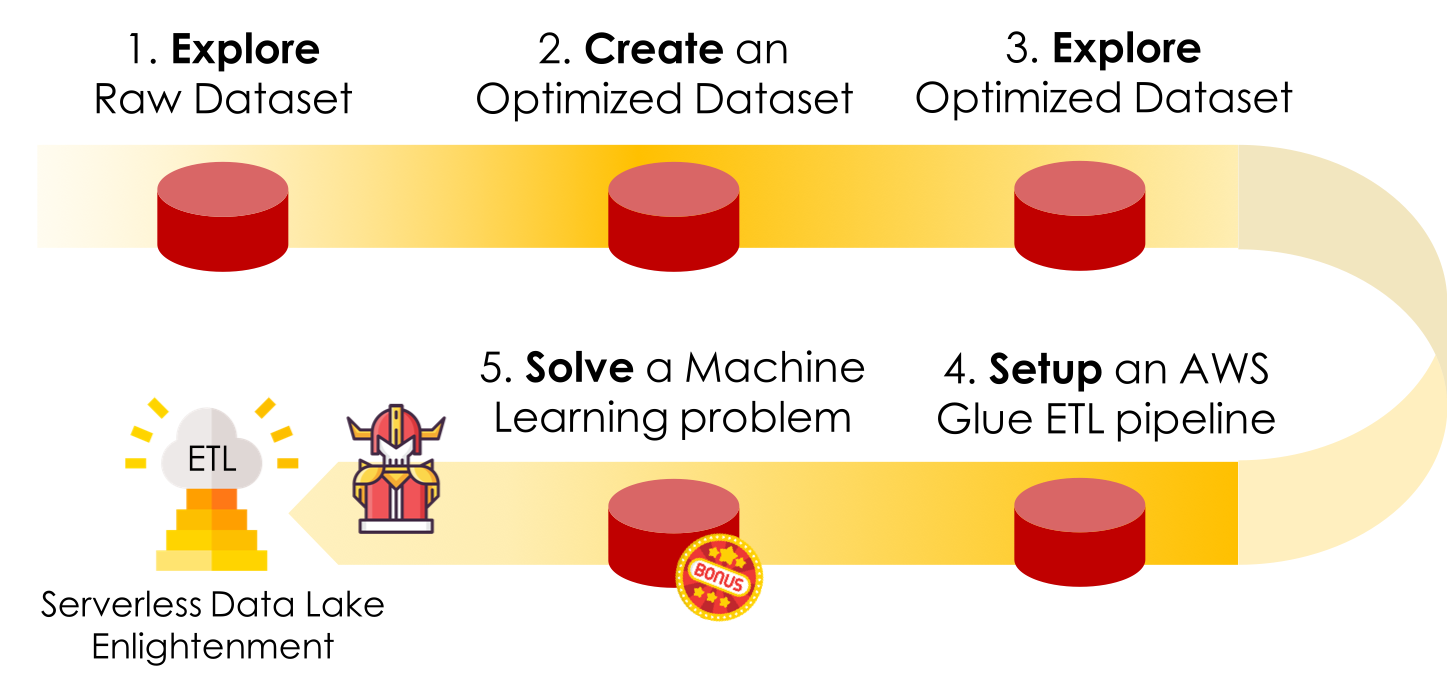
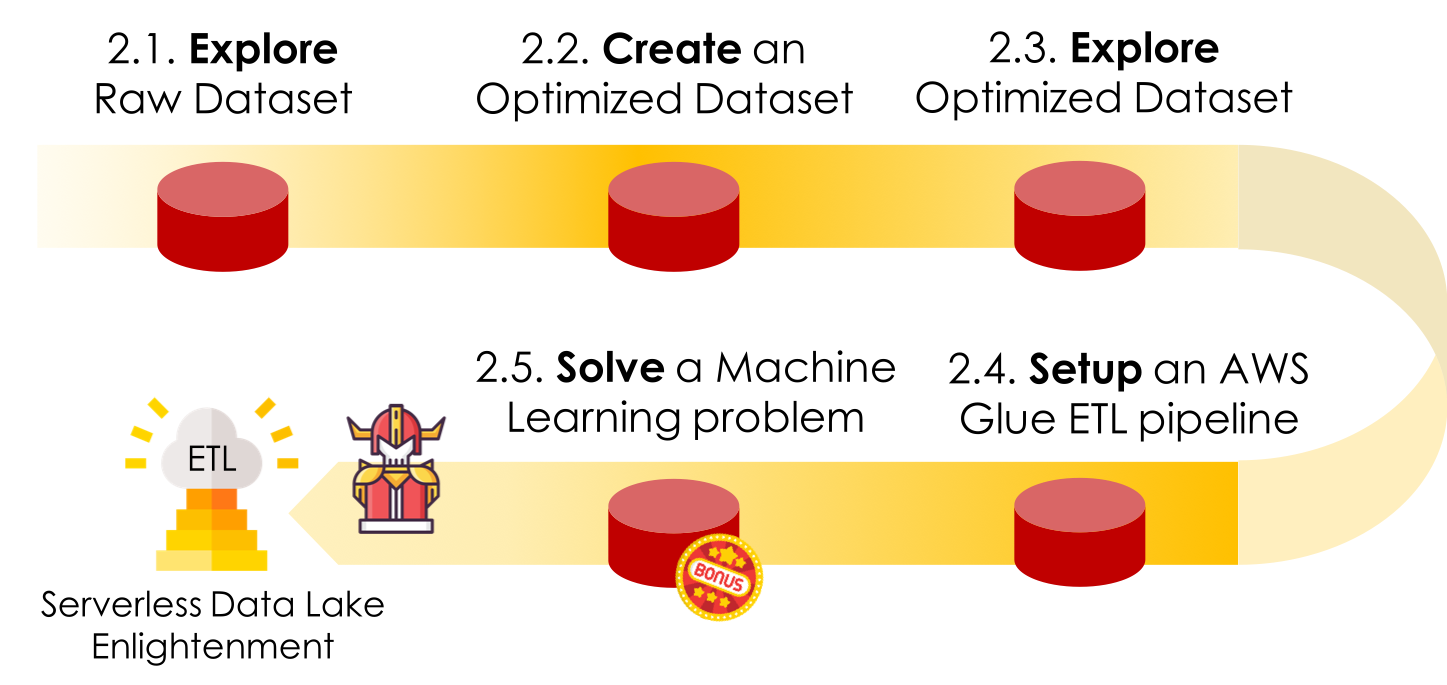
🎯 2.3. Transformed Data & Athena

diff --git a/content/data-prep/analyze/_index.vi.md b/content/data-prep/analyze/_index.vi.md
@@ -1,7 +1,111 @@
 ---
-title: Explore Optimized Dataset
+title: Transformed Data & Athena
 weight: 230
 pre: "<b>2.3. </b>"
 ---
 
-Explore Optimized Dataset ...
+# 2.3. Explore Optimized Dataset
+
+![Data Lake Architecture](/images/modules/analyze.png?width=50pc)
+
+> {{%expand "Improvement in Query Performance and reduction of Data Scanned" %}}
+In the previous step, you created a new Dataset that is optimized for Querying and Reporting. Now, it's time to test the optimizations you've done using SQL queries in Amazon Athena. What tangible **improvement in query performance** and **reduction of data scanned** have your optimizations achieved?
+
+Let's find out by performing the following steps.
+{{% /expand%}}
+
+### 2.3.1 Catalog Optimized Data with an AWS Glue Crawler
+
+🎯To be able to query the new optimized NYC Taxi trips dataset with Amazon Athena, we need to catalog the dataset using an AWS Glue Crawler.
+
+1. Navigate to the [AWS Glue console](https://ap-southeast-1.console.aws.amazon.com/glue/home?region=ap-southeast-1#catalog:tab=crawlers)
+2. In the left menu, click **Crawlers** → **Add crawler**
+3. On **Crawler info** step, enter crawler name **nyctaxi-optimized-crawler** and write a description. Click **Next**.
+4. On **Data store** step...
+   
+    a. Choose a data store: `S3` then choose `Specified path in my account`
+
+    b. In Include path, copy-and-paste an NYC Taxi dataset S3 URL:
+
+	```
+    s3://serverless-data-lake-XXX/data/staging/nyctaxi/yellow_opt/
+    ```
+
+    Note: replace `serverless-data-lake-XXX` with your actual bucket's name.
+	
+    c. Click **Next**
+    
+    d. **Add another data store**, select **Yes**. Click **Next**, again.
+	
+    e. Repeat steps **(a.)** to **(c.)** for the following NYC Taxi Dataset S3 path:
+
+	```
+    s3://serverless-data-lake-XXX/data/prod/nyctaxi/yellow_rpt/
+    ```
+
+    Note: replace `serverless-data-lake-XXX` with your actual bucket's name.
+
+    f. **Add another data store**, select **No**. Click **Next**, again.
+
+5. On **IAM role** step...
+
+	a. Click `Choose an existing IAM role`
+
+	b. In **IAM Role** menu, choose `AWSGlueCrawlerRole-nyctaxi`
+6. On **Schedule** step, click **Next**
+7. On **Output** step...
+	
+    a. For **Database**, select `nyctaxi`.
+	
+    b. Expand **Configuration options (optional)** → select `Add new columns only`
+	
+    We choose this option when we plan on making changes to the table schema manually later on. In such a case, we do not want the AWS Glue Crawler to override our changes in subsequent runs.
+	
+	c. Click **Next**
+
+8. On **Review all steps**, click **Finish**
+9. Finally, click on the green **Run it now?** prompt at the top of the crawlers page.
+
+
+> ✍ The Crawler will run over the new optimized NYC Taxi trips dataset. It will then create a new table, called **yellow_opt** in the AWS Glue data catalog.
+
+> {{%expand "Note that the path data/prod/nyctaxi/yellow_rpt/ does NOT exist yet!" %}}
+Why do you need to add this S3 path?
+Later on, in the exercise 'Advanced Exercise: AWS Glue Job Bookmarks', we'll generate a new optimized dataset for **production use** under that path. Then, we'll need to crawl it and catalog it. In a real scenario, you may choose to create a separate Crawler to crawl that Production Dataset path specifically. However, to save time and avoid repetition in this lab, we'll use a single Crawler – the one you're creating here – to crawl both Datasets.
+{{% /expand%}}
+
+> 🚀Let's take a look at what the Crawler created.
+
+1. In the left menu, under **Data Catalog**, click **Tables**
+
+2. Click on the **yellow_opt** table to show the **Table properties** and **Schema**
+
+3. Scroll down, examine Table **Schema**. Notice the many new fields added. Also notice two new fields **pu_year** and **pu_month** and how they were identified as partitioning columns.
+
+
+### 2.3.2: Query Optimized Data with Amazon Athena
+
+Now that the data has been cataloged, let's test the sample reporting and aggregation queries **on the optimized NYC Taxi trips dataset**.
+
+1. Navigate to **Amazon Athena** console
+2. Ensure database `nyctaxi` is selected.
+3. Click the **Refresh** button, notice how Athena detected the new **`yellow_opt`** Partitioned Table.
+4. Click on the tab **Saved Queries**
+5. In the search field, type `nyctaxi:opt`
+6. Click on the query `AthenaSampleRptOptimizedNamedQuery-` to open in Athena query editor
+7. Click **Run query**
+8. Observe **query run time** and **data scanned.** Compare with the results you saved from section " **2.1.3. Query Raw Data with Amazon Athena"** and notice the improvements:
+
+    ~~(Run time: 48.38 seconds, Data scanned: 164.98 MB)~~
+
+    `(Run time: 15.83 seconds, Data scanned: 20.16 MB)`
+
+    👍 About **3x speed-up** and **80% data scanned** cost reduction compared to Raw Dataset Query.
+
+9.  Repeat **steps 3- 7** for query `AthenaOptimizedAggNamedQuery-`
+
+    ~~(Run time: 41.73 seconds, Data scanned: 164.96 MB)~~
+
+    `(Run time: 3.36 seconds, Data scanned: 62.3 MB)`
+
+    👍 About **12x speed-up** and **25% data scanned** cost reduction compared to Raw Dataset Query.

diff --git a/content/data-prep/catalog_data/_index.en.md b/content/data-prep/catalog_data/_index.en.md
@@ -16,7 +16,7 @@ A Crawler scans your data, classifying its format (.csv, .tsv, ...) and inferrin
 {{% /expand%}}
 
 
-### 2.2.1. Create and run an AWS Glue Crawler
+### 2.1.1. Create and run an AWS Glue Crawler
 
 🎯Let's run an AWS Glue crawler on the raw NYC Taxi trips dataset.
 
@@ -40,7 +40,7 @@ A Crawler scans your data, classifying its format (.csv, .tsv, ...) and inferrin
 
 	d. Click **Next** then **Next** once again.
 
-1. On **IAM Role** step...
+6. On **IAM Role** step...
    
     a. Click `Choose an existing IAM role`
 
@@ -48,9 +48,9 @@ A Crawler scans your data, classifying its format (.csv, .tsv, ...) and inferrin
 
     c. Click **Next**
 
-2. On **Schedule** step, click **Next**
+7. On **Schedule** step, click **Next**
 
-3. On **Output** step...
+8. On **Output** step...
 
     a. Click **Add database** → enter `nyctaxi` as the name → click **Create**
 
@@ -58,14 +58,14 @@ A Crawler scans your data, classifying its format (.csv, .tsv, ...) and inferrin
 
     c. Click Next
 
-4. On **Review all steps**, click **Finish**.
+9. On **Review all steps**, click **Finish**.
 
-5.  Finally, click on the green **Run it now?** prompt at the top of the Crawlers page.
+10.  Finally, click on the green **Run it now?** prompt at the top of the Crawlers page.
 
 
 > ✍ Your crawler should immediately start. Upon completion, it adds four tables in the **nyctaxi** database in your AWS Glue data catalog: **yellow** , **paymenttype** , **ratecode** , and **taxizone**.
 
-### 2.2.2. Explore Table Schema and Metadata
+### 2.1.2. Explore Table Schema and Metadata
 
 🎯Now that we have cataloged the raw NYC Taxi trips dataset using a Crawler, let's explore the Crawler's output in the AWS Glue Data Catalog.
 
@@ -86,7 +86,7 @@ A Crawler scans your data, classifying its format (.csv, .tsv, ...) and inferrin
 4. Scroll down, examine Table **Schema**. Fields have been identified along with their potential Datatypes. You can manually change any Datatype.
 
 
-### 2.2.3. Query Raw Data with Amazon Athena
+### 2.1.3. Query Raw Data with Amazon Athena
 
 > {{%expand "Proposing Amazon Athena along with Amazon QuickSight." %}}
 
@@ -108,11 +108,14 @@ and analytics queries that Unicorn-Taxi's business end users may want to run on 
 4. In the search field, type `nyctaxi:raw`
 5. Click on the `AthenaSampleRptNamedQuery-` query to open in Athena Query Editor.
 Note: After opening the query, [review the comment before the SQL statement](https://github.com/nnthanh101/serverless-data-lake/blob/nyc-taxi/README/nyc-taxi/athena/AthenaSampleRptNamedQuery.sql).
-1. Click **Run query**
+6. Click **Run query**
 
-2. Note: Query **Run time** and **Data scanned**. Copy and paste it into an open text file for later comparison.
-`(Run time: 48.74 seconds, Data scanned: 164.98 MB)`
+7. Note: Query **Run time** and **Data scanned**. Copy and paste it into an open text file for later comparison.
 
-1. Repeat **steps 3- 7** for query **[AthenaSampleAggQuery-](https://github.com/nnthanh101/serverless-data-lake/blob/nyc-taxi/README/nyc-taxi/athena/AthenaSampleAggQuery.sql)**
+    `(Run time: 48.38 seconds, Data scanned: 164.98 MB)`
+
+8. Repeat **steps 3- 7** for query **[`AthenaSampleAggQuery-`](https://github.com/nnthanh101/serverless-data-lake/blob/nyc-taxi/README/nyc-taxi/athena/AthenaSampleAggQuery.sql)**
+
+    `(Run time: 41.73 seconds, Data scanned: 164.96 MB)`
 
 ✍ The *Query Run time* and *Data scanned* values you obtained are a result of running the queries directly on the **Raw Dataset**. Later on, we'll create an **Optimized Dataset** and query it again. And then, we'll be able to compare Query Run times and Data scanned on Raw Dataset versus Optimized Dataset.

diff --git a/content/data-prep/analyze/_index.en.md b/content/data-prep/analyze/_index.en.md
@@ -4,7 +4,7 @@ weight: 230
 pre: "<b>2.3. </b>"
 ---
 
-# 3.3. Explore Optimized Dataset
+# 2.3. Explore Optimized Dataset
 
 ![Data Lake Architecture](/images/modules/analyze.png?width=50pc)
 
@@ -14,7 +14,7 @@ In the previous step, you created a new Dataset that is optimized for Querying a
 Let's find out by performing the following steps.
 {{% /expand%}}
 
-### 3.3.1 Catalog Optimized Data with an AWS Glue Crawler
+### 2.3.1 Catalog Optimized Data with an AWS Glue Crawler
 
 🎯To be able to query the new optimized NYC Taxi trips dataset with Amazon Athena, we need to catalog the dataset using an AWS Glue Crawler.
 
@@ -81,3 +81,31 @@ Later on, in the exercise 'Advanced Exercise: AWS Glue Job Bookmarks', we'll gen
 2. Click on the **yellow_opt** table to show the **Table properties** and **Schema**
 
 3. Scroll down, examine Table **Schema**. Notice the many new fields added. Also notice two new fields **pu_year** and **pu_month** and how they were identified as partitioning columns.
+
+
+### 2.3.2: Query Optimized Data with Amazon Athena
+
+Now that the data has been cataloged, let's test the sample reporting and aggregation queries **on the optimized NYC Taxi trips dataset**.
+
+1. Navigate to **Amazon Athena** console
+2. Ensure database `nyctaxi` is selected.
+3. Click the **Refresh** button, notice how Athena detected the new **`yellow_opt`** Partitioned Table.
+4. Click on the tab **Saved Queries**
+5. In the search field, type `nyctaxi:opt`
+6. Click on the query `AthenaSampleRptOptimizedNamedQuery-` to open in Athena query editor
+7. Click **Run query**
+8. Observe **query run time** and **data scanned.** Compare with the results you saved from section " **2.1.3. Query Raw Data with Amazon Athena"** and notice the improvements:
+
+    ~~(Run time: 48.38 seconds, Data scanned: 164.98 MB)~~
+
+    `(Run time: 15.83 seconds, Data scanned: 20.16 MB)`
+
+    👍 About **3x speed-up** and **80% data scanned** cost reduction compared to Raw Dataset Query.
+
+9.  Repeat **steps 3- 7** for query `AthenaOptimizedAggNamedQuery-`
+
+    ~~(Run time: 41.73 seconds, Data scanned: 164.96 MB)~~
+
+    `(Run time: 3.36 seconds, Data scanned: 62.3 MB)`
+
+    👍 About **12x speed-up** and **25% data scanned** cost reduction compared to Raw Dataset Query.

diff --git a/content/data-prep/visualize/_index.vi.md b/content/data-prep/visualize/_index.vi.md
@@ -1,7 +1,7 @@
 ---
-title: Explore Optimized Dataset
-weight: 240
-pre: "<b>2.4. </b>"
+title: Visualize using QuickSight
+weight: 250
+pre: "<b>2.5. </b>"
 ---
 
-Explore Optimized Dataset ...
+![Data Lake Architecture](/images/modules/visualize.png?width=50pc)

diff --git a/content/data-prep/lambda/_index.vi.md b/content/data-prep/lambda/_index.vi.md
@@ -1,7 +1,7 @@
 ---
-title: Explore Optimized Dataset
-weight: 250
-pre: "<b>2.5. </b>"
+title: Lambda
+weight: 260
+pre: "<b>2.6. </b>"
 ---
 
-Explore Optimized Dataset ...
+![Data Lake Architecture](/images/modules/lambda.png?width=50pc)

diff --git a/content/data-prep/visualize/_index.en.md b/content/data-prep/visualize/_index.en.md
@@ -1,7 +1,7 @@
 ---
 title: Visualize using QuickSight
-weight: 240
-pre: "<b>2.4. </b>"
+weight: 250
+pre: "<b>2.5. </b>"
 ---
 
 ![Data Lake Architecture](/images/modules/visualize.png?width=50pc)

diff --git a/content/data-prep/lambda/_index.en.md b/content/data-prep/lambda/_index.en.md
@@ -1,7 +1,7 @@
 ---
 title: Lambda
-weight: 250
-pre: "<b>2.5. </b>"
+weight: 260
+pre: "<b>2.6. </b>"
 ---
 
 ![Data Lake Architecture](/images/modules/lambda.png?width=50pc)
